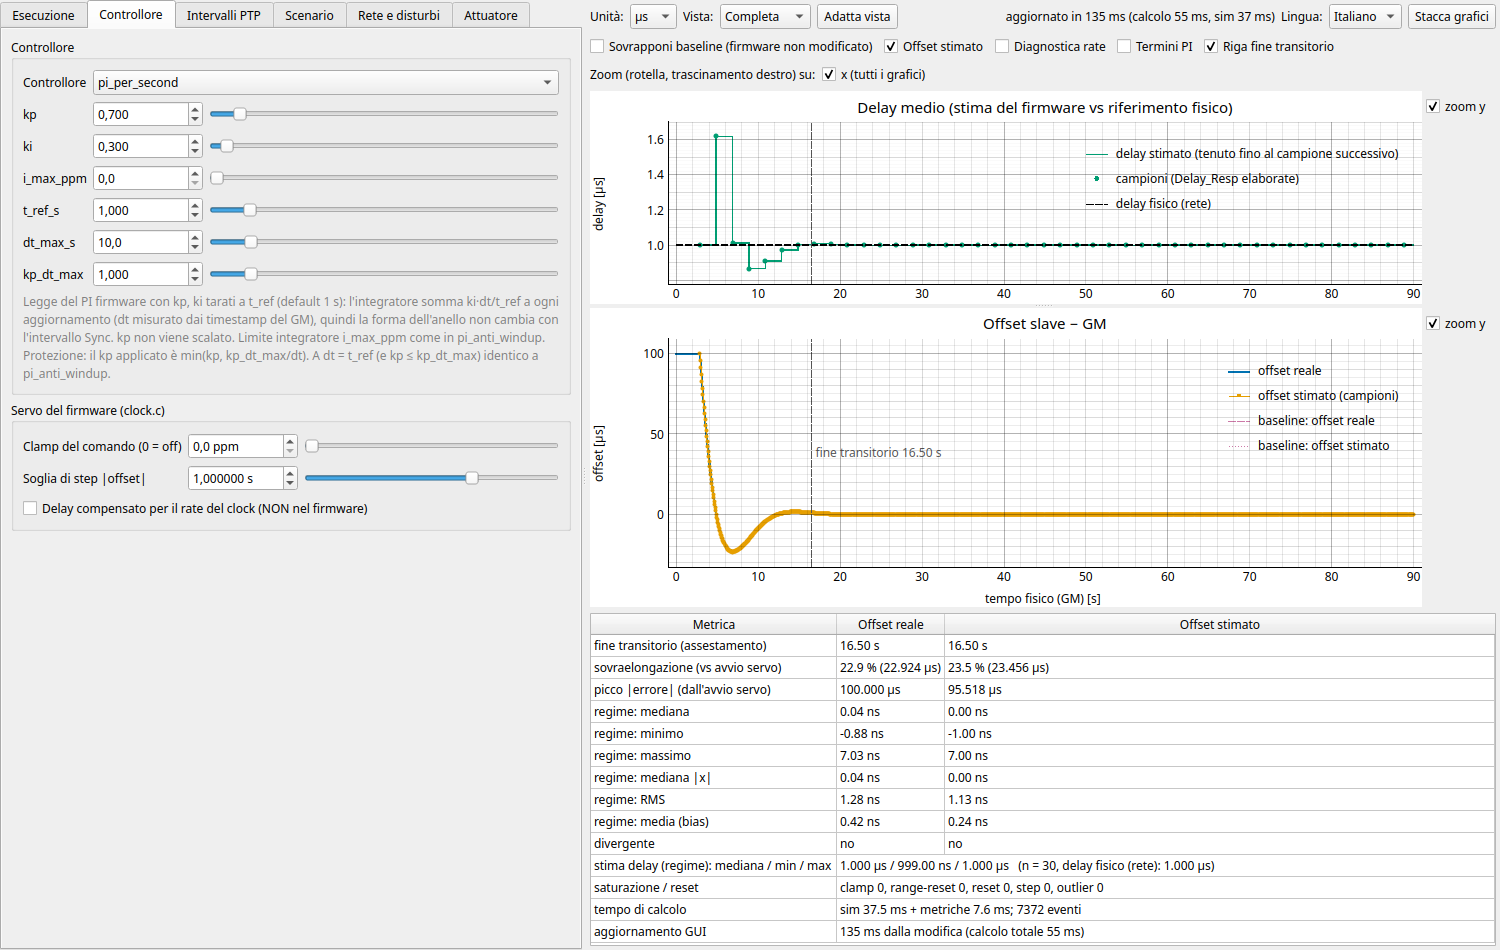
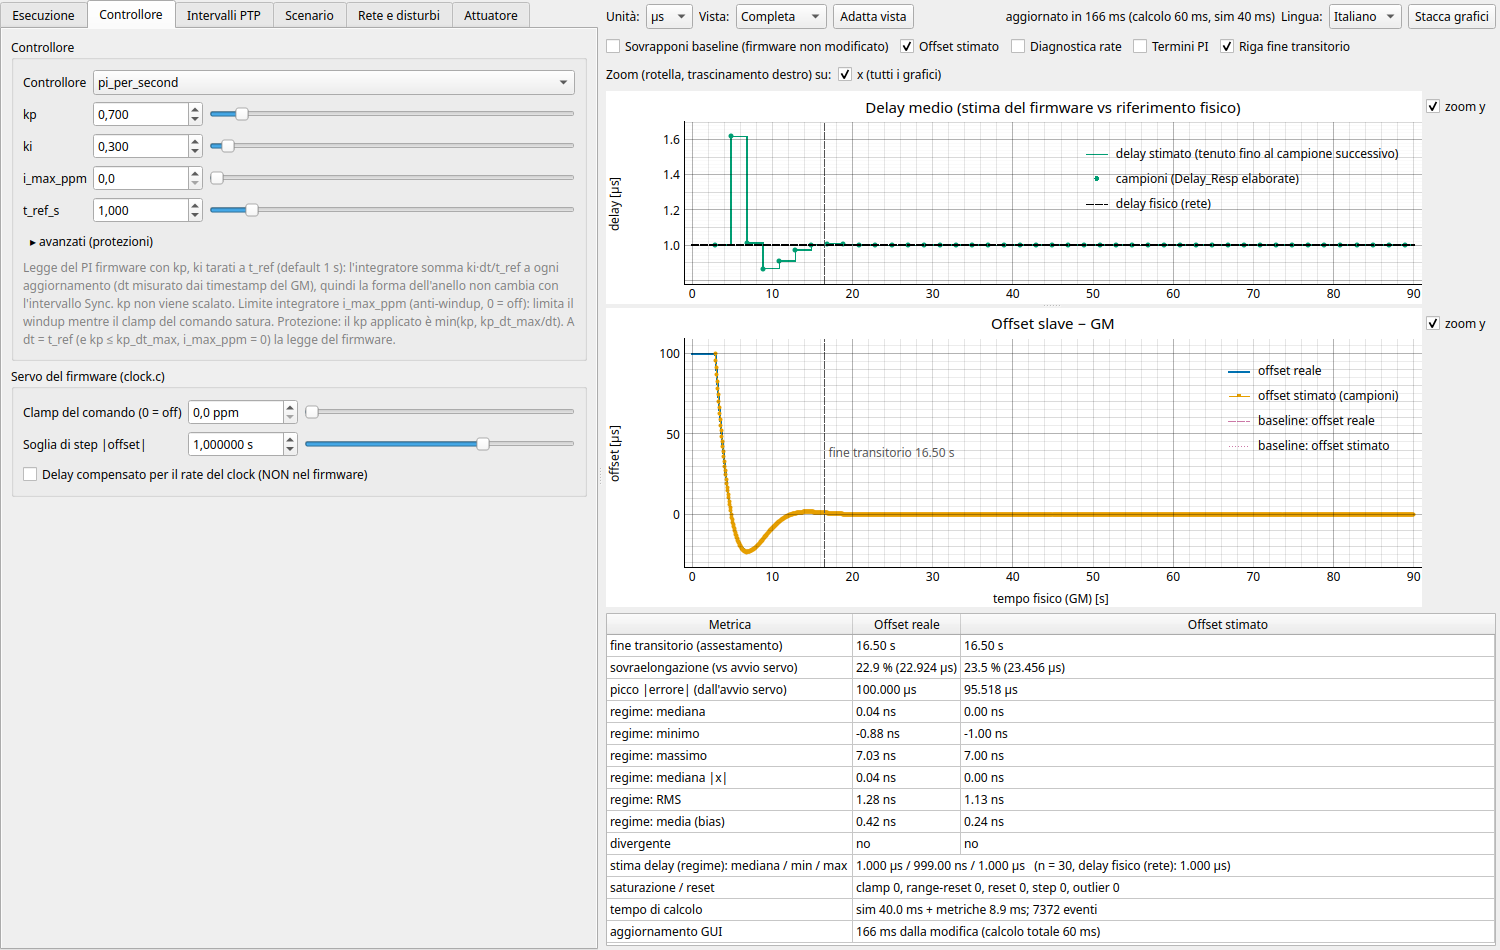
Controllers: guard-rail parameters in a collapsed 'advanced' section of the GUI; default sat_ppb 45 000 000 ppb (90 % of the actuator limit)

diff --git a/ptpsim/controllers.py b/ptpsim/controllers.py
@@ -39,6 +39,8 @@ class Controller:
     PARAMS: dict[str, tuple[float, float, float, str]] = {}
     #: saturation of the command in ppb handled by the controller itself (None = none)
     saturation_ppb: float | None = None
+    #: parameters that are guard rails more than tuning knobs: the GUI keeps them in a collapsed "advanced" section
+    ADVANCED: frozenset[str] = frozenset()
 
     def __init__(self, **params: float):
         self.params = {k: v[0] for k, v in self.PARAMS.items()}
@@ -155,9 +157,10 @@ class PITimeAware(Controller):
     Same inputs (offset estimate only), same absolute-ppb output, same firmware servo state machine.
     """
     name = "pi_time_aware"
+    ADVANCED = frozenset({"wn_ts_max", "dt_max_s"})
     PARAMS = {"wn": (1.0, 0.01, 20.0, "natural frequency [rad/s]"),
               "zeta": (1.0, 0.1, 5.0, "damping ratio []"),
-              "sat_ppb": (400_000.0, 1.0, 5e7, "command limit [ppb] (must stay below the actuator limit)"),
+              "sat_ppb": (45_000_000.0, 1.0, 5e7, "command limit [ppb] (must stay below the actuator limit)"),
               "i_max_ppm": (0.0, 0.0, 50_000.0, "integrator limit [ppm] (0 = off)"),
               "wn_ts_max": (0.35, 0.01, 1.0, "max wn * dt [rad] (stability guard, kp*dt < 2)"),
               "dt_max_s": (10.0, 0.01, 100.0, "measured dt is clamped to this value [s] (>= nominal Sync interval)")}
@@ -246,13 +249,14 @@ class PIGainScheduled(PITimeAware):
     oscillator drift: for a ramp in the frequency the offset settles at (ramp rate) / wn_min^2.
     """
     name = "pi_gain_scheduled"
+    ADVANCED = frozenset({"tau_release_s", "zeta", "wn_ts_max", "dt_max_s"})
     PARAMS = {"wn_min": (0.2, 0.01, 20.0, "natural frequency for a small error [rad/s]"),
               "wn_max": (1.2, 0.01, 20.0, "natural frequency for a large error [rad/s]"),
               "e_lo_ns": (1_000.0, 1.0, 1e9, "error at/below which wn = wn_min [ns]"),
               "e_hi_ns": (100_000.0, 1.0, 1e12, "error at/above which wn = wn_max [ns]"),
               "tau_release_s": (4.0, 0.0, 600.0, "time constant of the slow release of the scheduling variable [s]"),
               "zeta": (1.0, 0.1, 5.0, "damping ratio []"),
-              "sat_ppb": (400_000.0, 1.0, 5e7, "command limit [ppb] (must stay below the actuator limit)"),
+              "sat_ppb": (45_000_000.0, 1.0, 5e7, "command limit [ppb] (must stay below the actuator limit)"),
               "i_max_ppm": (0.0, 0.0, 50_000.0, "integrator limit [ppm] (0 = off)"),
               "wn_ts_max": (0.35, 0.01, 1.0, "max wn * dt [rad] (stability guard, kp*dt < 2)"),
               "dt_max_s": (10.0, 0.01, 100.0, "measured dt is clamped to this value [s] (>= nominal Sync interval)")}
@@ -327,6 +331,7 @@ class PIPerSecond(BaselinePI):
     docs/model.md), so it does not make every ``kp, ki, dt`` combination stable.
     """
     name = "pi_per_second"
+    ADVANCED = frozenset({"dt_max_s", "kp_dt_max"})
     PARAMS = {**BaselinePI.PARAMS,
               "i_max_ppm": (0.0, 0.0, 50_000.0, "integrator limit [ppm] (0 = off)"),
               "t_ref_s": (1.0, 0.01, 10.0, "interval at which kp, ki are tuned [s]; ki acts as ki*dt/t_ref_s"),

diff --git a/ptpsim/gui/app.py b/ptpsim/gui/app.py
@@ -118,6 +118,8 @@ class MainWindow(QtWidgets.QMainWindow):
         self._dirty: set[str] = set()        # widgets edited since the last load: only these override base_cfg
         self.rows: dict[str, ParamRow] = {}
         self.ctrl_rows: dict[str, ParamRow] = {}
+        self._adv_btn: QtWidgets.QToolButton | None = None      # "advanced" toggle of the controller parameters
+        self._adv_open = False
         self.mode = "explore"
         self.gen = 0
         self.t_change: float | None = None
@@ -227,6 +229,7 @@ class MainWindow(QtWidgets.QMainWindow):
         c = self.base_cfg
         self.rows.clear()
         self.ctrl_rows.clear()
+        self._adv_btn = None
         self.evt_lines.clear()
         self.trans_lines.clear()
         self.lim_lines.clear()
@@ -736,20 +739,45 @@ class MainWindow(QtWidgets.QMainWindow):
             for w in (r.label, r.spin, r.slider):
                 if w is not None:
                     self.ctrl_grid.removeWidget(w)
+                    w.hide()
                     w.deleteLater()
             self.rows.pop(r.name, None)
         self.ctrl_rows.clear()
         cls = REGISTRY[name]
-        for i, (k, (dflt, lo, hi, desc)) in enumerate(cls.PARAMS.items(), start=1):
+        if self._adv_btn is not None:
+            self.ctrl_grid.removeWidget(self._adv_btn)
+            self._adv_btn.deleteLater()
+            self._adv_btn = None
+        main = [k for k in cls.PARAMS if k not in cls.ADVANCED]
+        adv = [k for k in cls.PARAMS if k in cls.ADVANCED]
+        for i, k in enumerate(main + adv, start=1):
+            dflt, lo, hi, desc = cls.PARAMS[k]
             val = params.get(k, dflt)
             tip = T("pd_" + k) if ("pd_" + k) in STRINGS else desc
             row = ParamRow(k, [f"controller.params.{k}"], lo, hi, val, (hi - lo) / 200.0 if hi < 100 else 1.0,
                            decimals=3 if hi <= 20 else 1, tooltip=tip, log=k in LOG_SLIDER_PARAMS)
             row.name = "ctrl." + k
-            row.add_to(self.ctrl_grid, i)
+            grid_row = i if k not in cls.ADVANCED else i + 1                 # the "advanced" toggle sits in between
+            row.add_to(self.ctrl_grid, grid_row)
             row.changed.connect(self._on_param_changed)
             self.rows["ctrl." + k] = row
             self.ctrl_rows[k] = row
+        if adv:
+            btn = QtWidgets.QToolButton()
+            btn.setCheckable(True)
+            btn.setChecked(self._adv_open)
+            btn.setAutoRaise(True)
+            btn.setToolTip(T("ctrl_adv_tip"))
+            self.ctrl_grid.addWidget(btn, len(main) + 1, 0, 1, 3)
+            self._adv_btn = btn
+
+            def apply(on: bool, btn=btn, adv=adv):
+                self._adv_open = on
+                btn.setText(("▾ " if on else "▸ ") + T("ctrl_adv"))
+                for k in adv:
+                    self.ctrl_rows[k].set_visible(on)
+            btn.toggled.connect(apply)
+            apply(self._adv_open)
         self.ctrl_note.setText(T("cn_" + name))
 
     def _on_controller_changed(self, name: str):

diff --git a/tests/test_gui.py b/tests/test_gui.py
@@ -79,11 +79,29 @@ def test_gain_scheduled_controller_is_selectable_with_log_sliders(win):
     c = win.build_config()
     assert c.controller.name == "pi_gain_scheduled" and c.controller.params == {
         "wn_min": 0.2, "wn_max": 1.2, "e_lo_ns": 1000.0, "e_hi_ns": 100_000.0, "tau_release_s": 4.0, "zeta": 1.0,
-        "sat_ppb": 400_000.0, "i_max_ppm": 0.0, "wn_ts_max": 0.35, "dt_max_s": 10.0}
+        "sat_ppb": 45_000_000.0, "i_max_ppm": 0.0, "wn_ts_max": 0.35, "dt_max_s": 10.0}
     assert win.ctrl_rows["e_lo_ns"].log and win.ctrl_rows["e_hi_ns"].log and not win.ctrl_rows["wn_min"].log
     win.ctrl_rows["e_hi_ns"].spin.setValue(50_000.0)
     assert win.build_config().controller.params["e_hi_ns"] == 50_000.0
     win.ctrl_combo.setCurrentText("baseline_pi")
+
+
+def test_advanced_controller_parameters_are_collapsed_but_still_in_the_config(win):
+    win._apply_cfg_to_widgets(SimConfig.load(CONFIGS[0]))
+    win.ctrl_combo.setCurrentText("pi_gain_scheduled")
+    rows = win.ctrl_rows
+    shown = lambda: {k for k, r in rows.items() if not r.spin.isHidden()}
+    main = {"wn_min", "wn_max", "e_lo_ns", "e_hi_ns", "sat_ppb", "i_max_ppm"}
+    assert shown() == main                                              # the guard rails are hidden ...
+    assert set(win.build_config().controller.params) == main | {"tau_release_s", "zeta", "wn_ts_max", "dt_max_s"}
+    win._adv_btn.setChecked(True)                                       # ... until the section is opened
+    assert shown() == set(rows)
+    win.ctrl_combo.setCurrentText("pi_per_second")                      # the choice is kept over a controller switch
+    assert shown() == set(rows) and win._adv_btn.isChecked()
+    win._adv_btn.setChecked(False)
+    assert shown() == {"kp", "ki", "i_max_ppm", "t_ref_s"}
+    win.ctrl_combo.setCurrentText("baseline_pi")
+    assert win._adv_btn is None and set(rows) == {"kp", "ki"}
 
 
 def test_default_gui_scenario_is_the_100us_20ppm_one():

diff --git a/tests/test_gain_scheduled.py b/tests/test_gain_scheduled.py
@@ -106,10 +106,12 @@ def test_closed_loop_quieter_than_pi_time_aware_on_the_noisy_scenario():
 @pytest.mark.parametrize("cls,kw", [(PITimeAware, {"wn": 1.0}), (PIGainScheduled, {})])
 def test_integrator_limit_bounds_the_integral_and_is_off_by_default(cls, kw):
     free, limited = cls(**kw), cls(i_max_ppm=5.0, **kw)
+    peak_free = 0.0
     for i in range(400):
         s = sample(-50_000 if i < 200 else 50_000, index=i)                       # long error of one sign, then the other
         free.update(s)
         limited.update(s)
+        peak_free = max(peak_free, abs(free.integral))
         assert abs(limited.integral) <= 5_000.0 + 1e-9
-    assert abs(free.integral) > 5_000.0                                           # ... which the free integrator exceeds
+    assert peak_free > 5_000.0                                                    # ... which the free integrator exceeds
     assert cls(i_max_ppm=0.0, **kw).update(sample(-1000)) == cls(**kw).update(sample(-1000))

diff --git a/ptpsim/gui/i18n.py b/ptpsim/gui/i18n.py
@@ -371,6 +371,9 @@ STRINGS: dict[str, dict] = {
     "c_range": _s("out-of-range resets", "reset per comando fuori range"),
     "c_outl": _s("outliers rejected", "outlier rifiutati"),
     "c_lost": _s("lost messages", "messaggi persi"),
+    "ctrl_adv": _s("advanced (guard rails)", "avanzati (protezioni)"),
+    "ctrl_adv_tip": _s("Parameters that are guard rails more than tuning knobs; they keep working when hidden",
+                       "Parametri che sono più protezioni che manopole di taratura; restano attivi anche se nascosti"),
     "cn_baseline_pi": _s(
         "Faithful port of the firmware PI (precision_pi_update): integral += ki·e; u = kp·e + integral; "
         "e = −offset [ns]; absolute output in ppb; no dt, no saturation.",

diff --git a/ptpsim/gui/params.py b/ptpsim/gui/params.py
@@ -119,6 +119,11 @@ class ParamRow(QtCore.QObject):
         if self.slider is not None:
             form.addWidget(self.slider, row, 2)
 
+    def set_visible(self, on: bool):
+        for w in (self.label, self.spin, self.slider):
+            if w is not None:
+                w.setVisible(on)
+
     def set_enabled(self, on: bool):
         for w in (self.label, self.spin, self.slider):
             if w is not None:

diff --git a/docs/manual.it.md b/docs/manual.it.md
@@ -143,7 +143,7 @@ ultime due colonne — il comando accettato dal driver `cmd_applied_ppb` (dopo i
 ### 3.2 Scheda "Controllore"
 
 ![Scheda Controllore con pi_per_second](img/gui_controller_it.png)
-*Scheda Controllore con `pi_per_second`: i guadagni `kp`, `ki` tarati a `t_ref_s` (1 s), il limite dell'integratore e `dt_max_s`, `kp_dt_max`, la descrizione della legge scelta e il gruppo "Servo del firmware".*
+*Scheda Controllore con `pi_per_second`: i guadagni `kp`, `ki` tarati a `t_ref_s` (1 s), il limite dell'integratore, la sezione ripiegata "avanzati (protezioni)" (`dt_max_s`, `kp_dt_max`), la descrizione della legge scelta e il gruppo "Servo del firmware".*
 
 **Controllore** — la legge che comanda il rate del clock. Tutti producono una correzione di frequenza **assoluta** in ppb
 (positivo = più veloce) usando solo l'**offset stimato**.
@@ -154,11 +154,12 @@ ultime due colonne — il comando accettato dal driver `cmd_applied_ppb` (dopo i
     Conseguenza: lo smorzamento dell'anello dipende dall'intervallo Sync (l'help Kconfig dice che i default vanno bene per ≈1 s).
   * Nessuna saturazione: un comando oltre ±50 000 ppm viene rifiutato dal driver NXP e il firmware azzera il servo
     (a meno che sia attivo il *clamp del comando* sperimentale qui sotto; l'integratore allora va in windup, non c'è anti-windup).
+* I parametri di protezione (`pi_time_aware`: **wn_ts_max**, **dt_max_s**; `pi_gain_scheduled`: anche **tau_release_s** e **zeta**; `pi_per_second`: **dt_max_s**, **kp_dt_max**) stanno in una sezione ripiegata *avanzati (protezioni)* della scheda Controllore; restano attivi anche se nascosti. I limiti che si dimensionano (**sat_ppb**, **i_max_ppm**) restano visibili.
 * `pi_time_aware` — PI sperimentale con tempo esplicito e anti-windup.
   * **wn** [rad/s]: frequenza naturale dell'anello chiuso; `kp = 2ζ·wn` [1/s], `ki = wn²` [1/s²].
   * **zeta** []: smorzamento (1 = criticamente smorzato).
-  * **sat_ppb** [ppb]: limite del comando (deve restare sotto 50 000 ppm = 50 000 000 ppb); l'integratore si congela finché l'uscita è
-    satura e l'errore la spingerebbe oltre (anti-windup).
+  * **sat_ppb** [ppb]: limite del comando (default 45 000 000 = 45 000 ppm; deve restare sotto 50 000 ppm = 50 000 000 ppb); l'integratore si congela finché l'uscita è
+    satura e l'errore la spingerebbe oltre (anti-windup). Limita anche la velocità di recupero: un offset iniziale grande non si recupera più in fretta di `sat_ppb` ns al secondo (49 ms a 400 000 ppb richiedono almeno 122 s).
   * **i_max_ppm** [ppm]: limite opzionale sull'integratore stesso (**0 = off**), in aggiunta al clamp dell'uscita e all'integratore congelato; deve restare sopra la correzione di frequenza a regime (errore dell'oscillatore + deriva), altrimenti l'offset non arriva a zero.
   * **wn_ts_max** [rad]: limita la banda a `wn·dt ≤ wn_ts_max` perché l'anello campionato resti stabile (`kp·dt < 2`).
   * **dt_max_s** [s]: l'intervallo misurato da `t1` consecutivi è limitato a questo valore assoluto (default 10 s; protezione

diff --git a/docs/manual.en.md b/docs/manual.en.md
@@ -142,7 +142,7 @@ columns — the command accepted by the driver `cmd_applied_ppb` (after the clam
 ### 3.2 Tab "Controller"
 
 ![Controller tab with pi_per_second](img/gui_controller_en.png)
-*Controller tab with `pi_per_second`: the gains `kp`, `ki` tuned at `t_ref_s` (1 s), the integrator limit and `dt_max_s`, `kp_dt_max`, the description of the selected law and the "Firmware servo" group.*
+*Controller tab with `pi_per_second`: the gains `kp`, `ki` tuned at `t_ref_s` (1 s), the integrator limit, the collapsed "advanced (guard rails)" section (`dt_max_s`, `kp_dt_max`), the description of the selected law and the "Firmware servo" group.*
 **Controller** — which law drives the clock rate. All of them output an **absolute** frequency correction in ppb
 (positive = faster) from the **estimated offset** only.
 
@@ -152,11 +152,12 @@ columns — the command accepted by the driver `cmd_applied_ppb` (after the clam
     Consequence: the loop's damping depends on the Sync interval (the Kconfig help says the defaults suit ≈1 s).
   * No saturation: a command beyond ±50 000 ppm is rejected by the NXP driver and the firmware resets the servo
     (unless the experimental *command clamp* below is on; the integrator then winds up, there is no anti-windup).
+* The guard-rail parameters (`pi_time_aware`: **wn_ts_max**, **dt_max_s**; `pi_gain_scheduled`: also **tau_release_s** and **zeta**; `pi_per_second`: **dt_max_s**, **kp_dt_max**) sit in a collapsed *advanced (guard rails)* section of the Controller tab; they stay active when hidden. The limits you size (**sat_ppb**, **i_max_ppm**) stay visible.
 * `pi_time_aware` — experimental PI with explicit time and anti-windup.
   * **wn** [rad/s]: closed-loop natural frequency; `kp = 2ζ·wn` [1/s], `ki = wn²` [1/s²].
   * **zeta** []: damping ratio (1 = critically damped).
-  * **sat_ppb** [ppb]: clamp of the command (must stay below 50 000 ppm = 50 000 000 ppb); the integrator is frozen while
-    saturated and the error pushes further in (anti-windup).
+  * **sat_ppb** [ppb]: clamp of the command (default 45 000 000 = 45 000 ppm; must stay below 50 000 ppm = 50 000 000 ppb); the integrator is frozen while
+    saturated and the error pushes further in (anti-windup). It also bounds the slew rate: a large initial offset cannot be recovered faster than `sat_ppb` ns per second (49 ms at 400 000 ppb takes at least 122 s).
   * **i_max_ppm** [ppm]: optional limit on the integrator itself (**0 = off**), on top of the output clamp and the frozen integrator; it must stay above the steady frequency correction (oscillator error + drift), otherwise the offset cannot reach zero.
   * **wn_ts_max** [rad]: caps the bandwidth at `wn·dt ≤ wn_ts_max` so the sampled loop stays stable (`kp·dt < 2`).
   * **dt_max_s** [s]: the interval measured from consecutive `t1` is clamped to this absolute value (default 10 s;

diff --git a/docs/model.md b/docs/model.md
@@ -100,7 +100,7 @@ residual at 24 MHz.
 | parameters | `kp` [ppb/ns], `ki` [ppb/ns per update] | `wn` [rad/s], `zeta`; `kp = 2ζ·wn` [s⁻¹], `ki = wn²` [s⁻²] | as baseline (at `t_ref_s`) + `i_max_ppm` [ppm] (0 = off), `t_ref_s`, `dt_max_s`, `kp_dt_max` |
 | dt | none | measured from consecutive `t1` (GM timestamps), clamped to `dt_max_s` | measured from consecutive `t1`, clamped to `dt_max_s`; scales `ki` only |
 | stability | none (Kconfig: tuned for ~1 s) | `wn·dt ≤ wn_ts_max` (0.35 rad): `kp·dt < 2` | `kp_eff = min(kp, kp_dt_max/dt)` (`kp·dt ≤ 1` by default) |
-| saturation | none: driver rejects → `clock_servo_reset` | clamp ±`sat_ppb` (400 000 ppb) + anti-windup | integrator only (output limited by the servo's command clamp, if on) |
+| saturation | none: driver rejects → `clock_servo_reset` | clamp ±`sat_ppb` (default 45 000 000 ppb = 45 000 ppm, 90 % of the actuator limit; the comparison below uses 400 000 ppb explicitly) + anti-windup | integrator only (output limited by the servo's command clamp, if on) |
 | output | absolute ppb | absolute ppb | absolute ppb |
 
 `pi_per_second` has `ki_eff = ki·dt/t_ref_s` (`dt` measured from consecutive `t1`,
